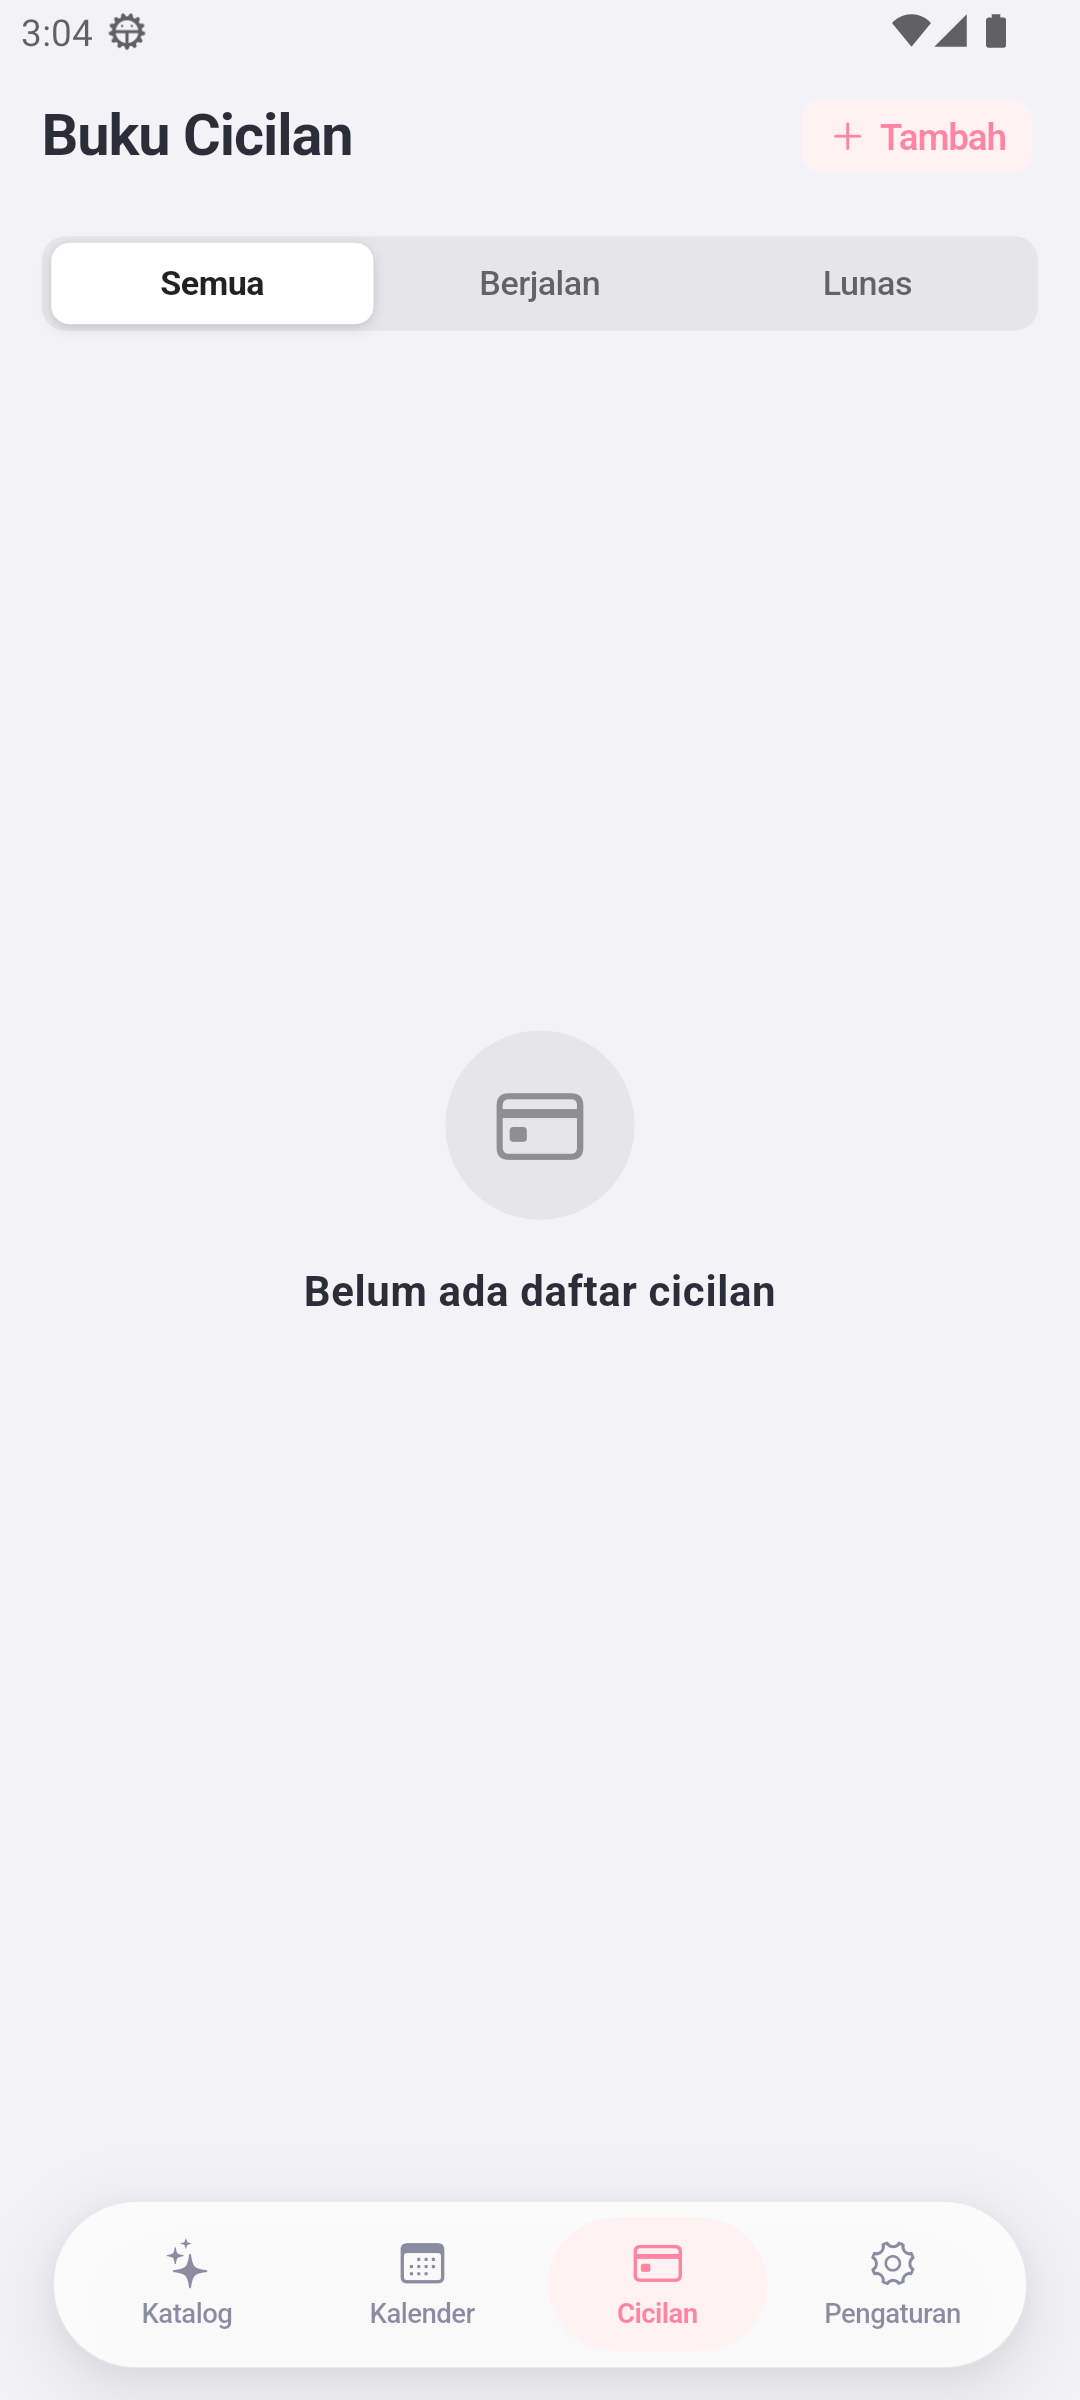
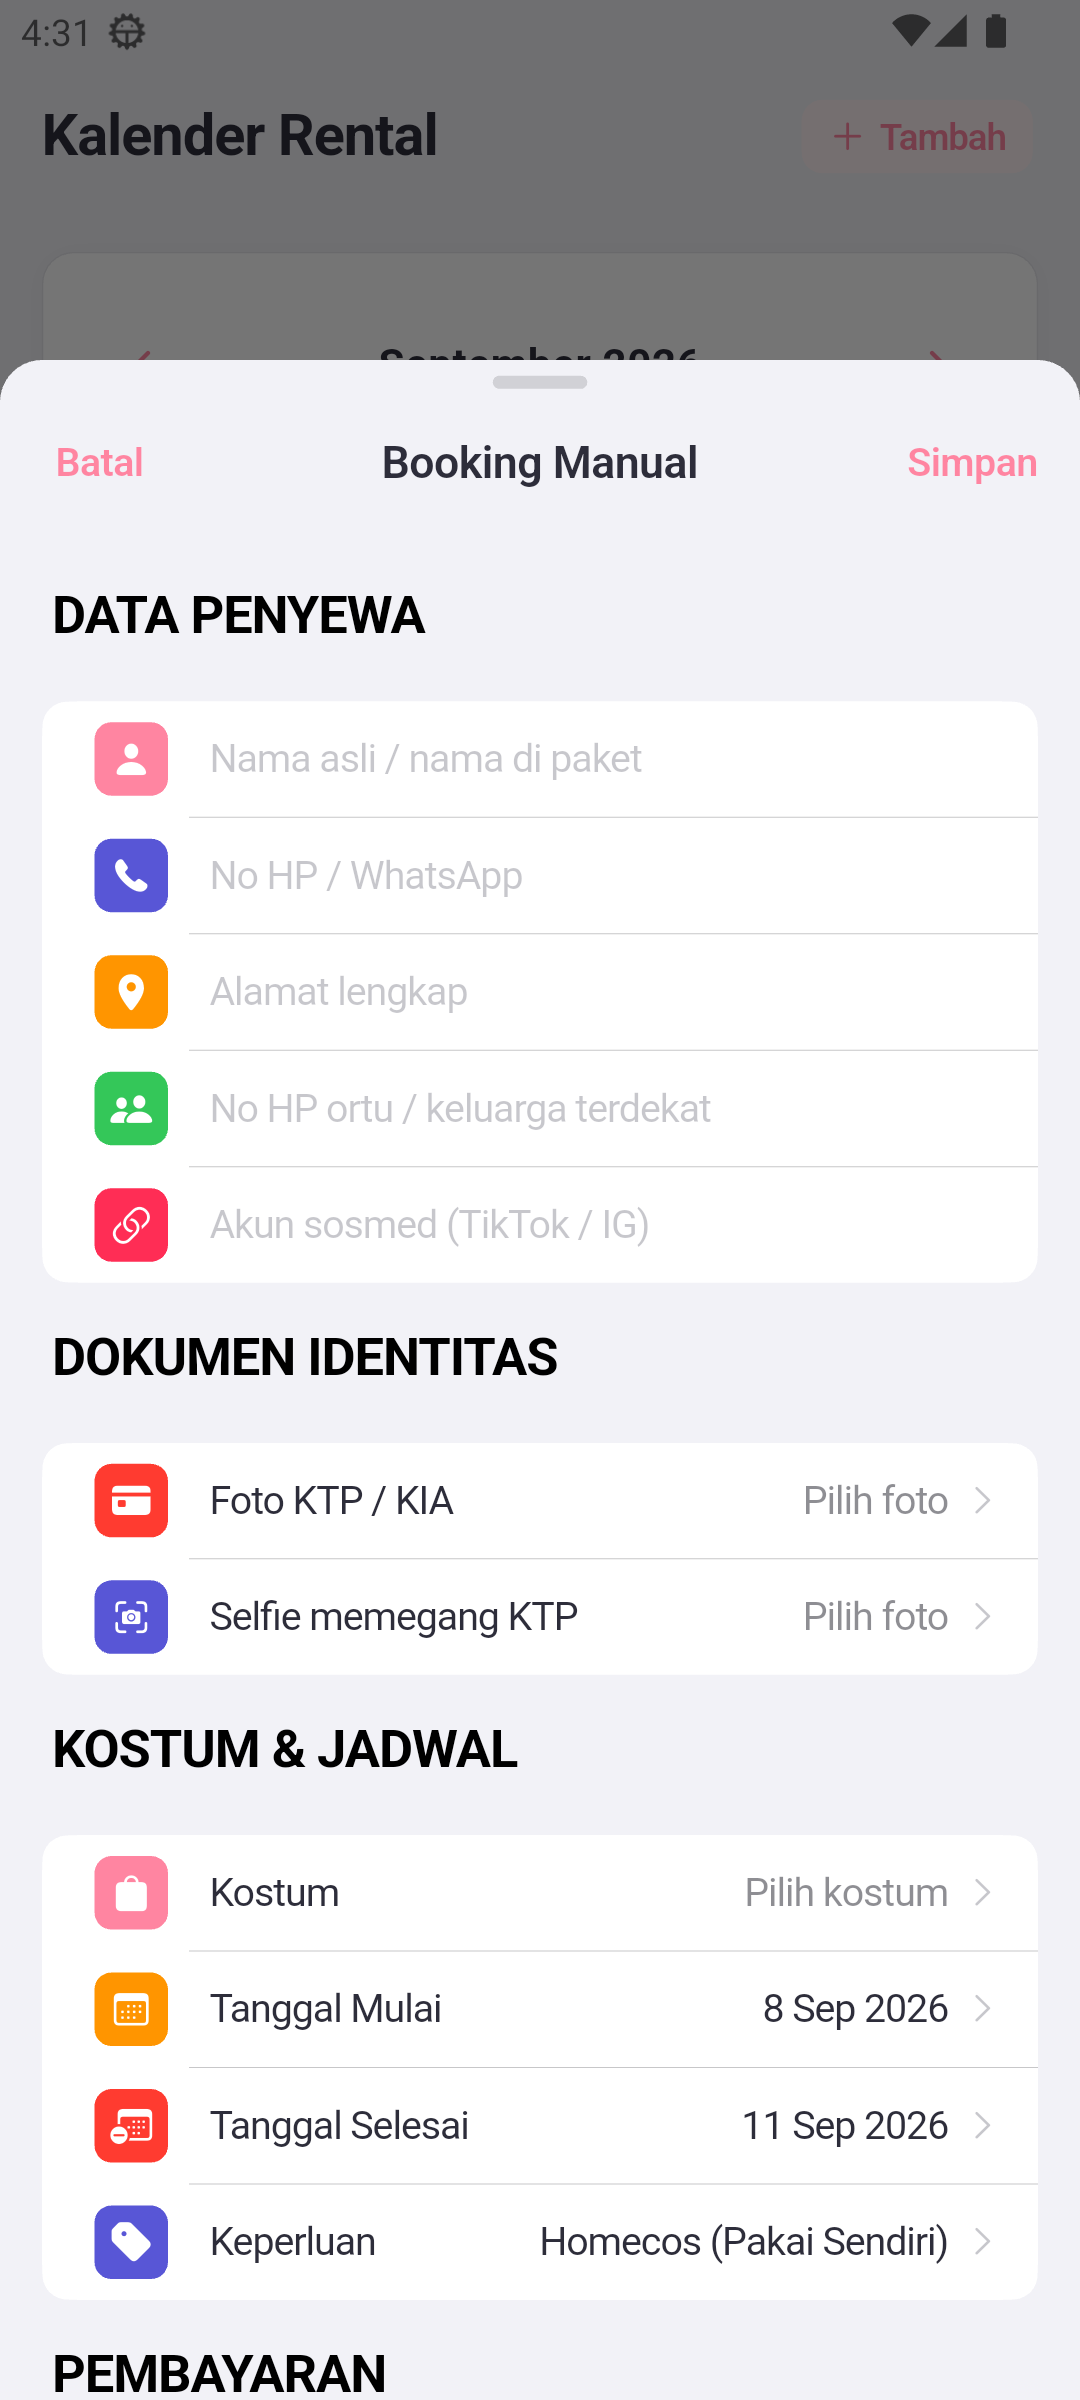
v1.0.54 build 58: Picker body stateful + faster expand animation
- _PickerBody converted from StatelessWidget to StatefulWidget, with
  FixedExtentScrollController held in State. Before, every build() of the
  picker body (e.g. during AnimatedSize animation frames) created a new
  controller — CupertinoPicker would briefly reset to initialItem on each
  repaint, contributing to the visual stutter during expand.
- AnimatedSize 300ms → 220ms, easeInOutCubic → easeOutCubic (faster
  perceived expansion, ~27% shorter animation window).
- Closed-state SizedBox.shrink() → SizedBox(width: double.infinity) so the
  collapsed branch has explicit width and the animation interpolates from
  a known base width instead of zero.
- Build 57's `RepaintBoundary` around the modal ListView and BoxShadow
  removal reverted (no measurable benefit on emulator, kept for
  cleanliness).

diff --git a/lib/core/widgets/inline_picker_row.dart b/lib/core/widgets/inline_picker_row.dart
@@ -238,8 +238,8 @@ class _InlinePickerRowState extends State<InlinePickerRow> {
           onTap: widget.disabled ? null : _toggle,
         ),
         AnimatedSize(
-          duration: const Duration(milliseconds: 300),
-          curve: Curves.easeInOutCubic,
+          duration: const Duration(milliseconds: 220),
+          curve: Curves.easeOutCubic,
           alignment: Alignment.topCenter,
           child: _expanded
               ? _PickerBody(
@@ -248,14 +248,14 @@ class _InlinePickerRowState extends State<InlinePickerRow> {
                   onSelected: _onWheelChanged,
                   onClose: _onClose,
                 )
-              : const SizedBox.shrink(),
+              : const SizedBox(width: double.infinity),
         ),
       ],
     );
   }
 }
 
-class _PickerBody extends StatelessWidget {
+class _PickerBody extends StatefulWidget {
   final List<Widget> cachedChildren;
   final int initialIndex;
   final void Function(int) onSelected;
@@ -267,6 +267,25 @@ class _PickerBody extends StatelessWidget {
     required this.onSelected,
     required this.onClose,
   });
+
+  @override
+  State<_PickerBody> createState() => _PickerBodyState();
+}
+
+class _PickerBodyState extends State<_PickerBody> {
+  late final FixedExtentScrollController _controller;
+
+  @override
+  void initState() {
+    super.initState();
+    _controller = FixedExtentScrollController(initialItem: widget.initialIndex);
+  }
+
+  @override
+  void dispose() {
+    _controller.dispose();
+    super.dispose();
+  }
 
   @override
   Widget build(BuildContext context) {
@@ -287,10 +306,9 @@ class _PickerBody extends StatelessWidget {
               height: 180,
               child: CupertinoPicker(
                 itemExtent: 36,
-                scrollController:
-                    FixedExtentScrollController(initialItem: initialIndex),
-                onSelectedItemChanged: onSelected,
-                children: cachedChildren,
+                scrollController: _controller,
+                onSelectedItemChanged: widget.onSelected,
+                children: widget.cachedChildren,
               ),
             ),
           ),
@@ -302,8 +320,9 @@ class _PickerBody extends StatelessWidget {
                 CupertinoButton(
                   padding: EdgeInsets.zero,
                   minimumSize: Size.zero,
-                  onPressed: onClose,
-                  child: const Text('Selesai', style: AppTypography.actionButton),
+                  onPressed: widget.onClose,
+                  child: const Text('Selesai',
+                      style: AppTypography.actionButton),
                 ),
               ],
             ),
@@ -464,8 +483,8 @@ class _InlineDatePickerRowState extends State<InlineDatePickerRow> {
           onTap: _toggle,
         ),
         AnimatedSize(
-          duration: const Duration(milliseconds: 300),
-          curve: Curves.easeInOutCubic,
+          duration: const Duration(milliseconds: 220),
+          curve: Curves.easeOutCubic,
           alignment: Alignment.topCenter,
           child: _expanded
               ? _DatePickerBody(
@@ -509,6 +528,8 @@ class _DatePickerBody extends StatelessWidget {
   @override
   Widget build(BuildContext context) {
     return Container(
+      // No opaque color — the picker renders its own background, and an
+      // opaque white box would clip the section's rounded bottom corners.
       decoration: const BoxDecoration(
         border: Border(
           top: BorderSide(color: Color(0xFFE5E5EA), width: 0.5),
@@ -535,8 +556,9 @@ class _DatePickerBody extends StatelessWidget {
           Padding(
             padding: const EdgeInsets.symmetric(horizontal: 20, vertical: 8),
             child: Row(
-              mainAxisAlignment:
-                  onClear != null ? MainAxisAlignment.spaceBetween : MainAxisAlignment.end,
+              mainAxisAlignment: onClear != null
+                  ? MainAxisAlignment.spaceBetween
+                  : MainAxisAlignment.end,
               children: [
                 if (onClear != null)
                   CupertinoButton(
@@ -556,7 +578,8 @@ class _DatePickerBody extends StatelessWidget {
                   padding: EdgeInsets.zero,
                   minimumSize: Size.zero,
                   onPressed: onClose,
-                  child: const Text('Selesai', style: AppTypography.actionButton),
+                  child: const Text('Selesai',
+                      style: AppTypography.actionButton),
                 ),
               ],
             ),
